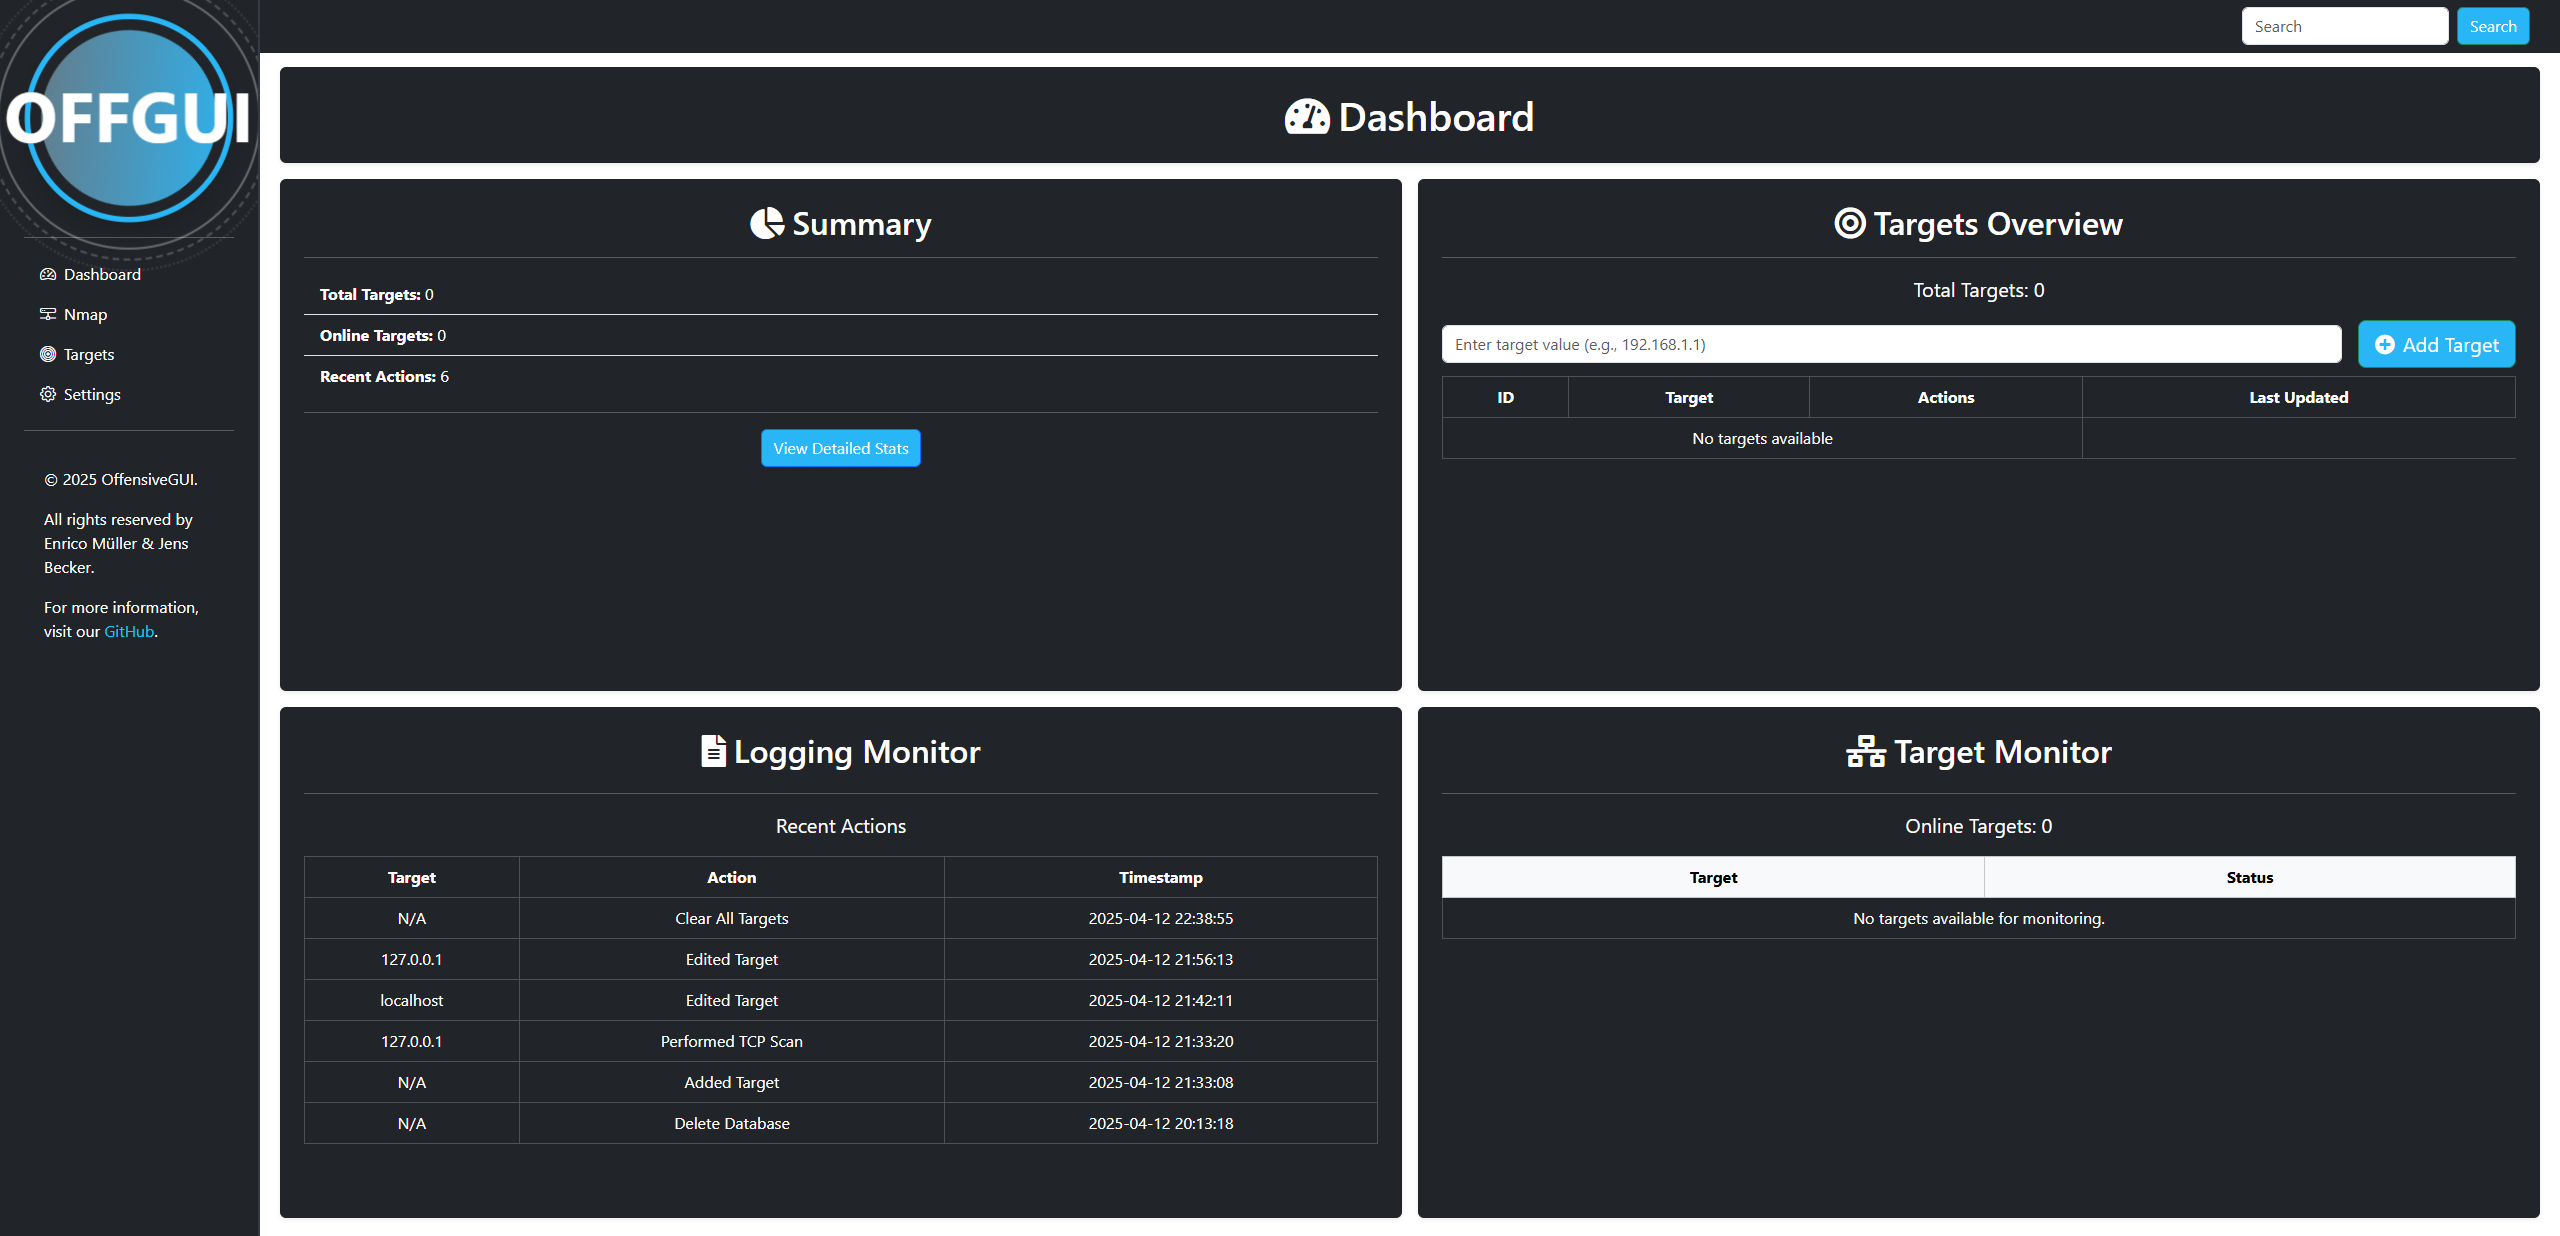
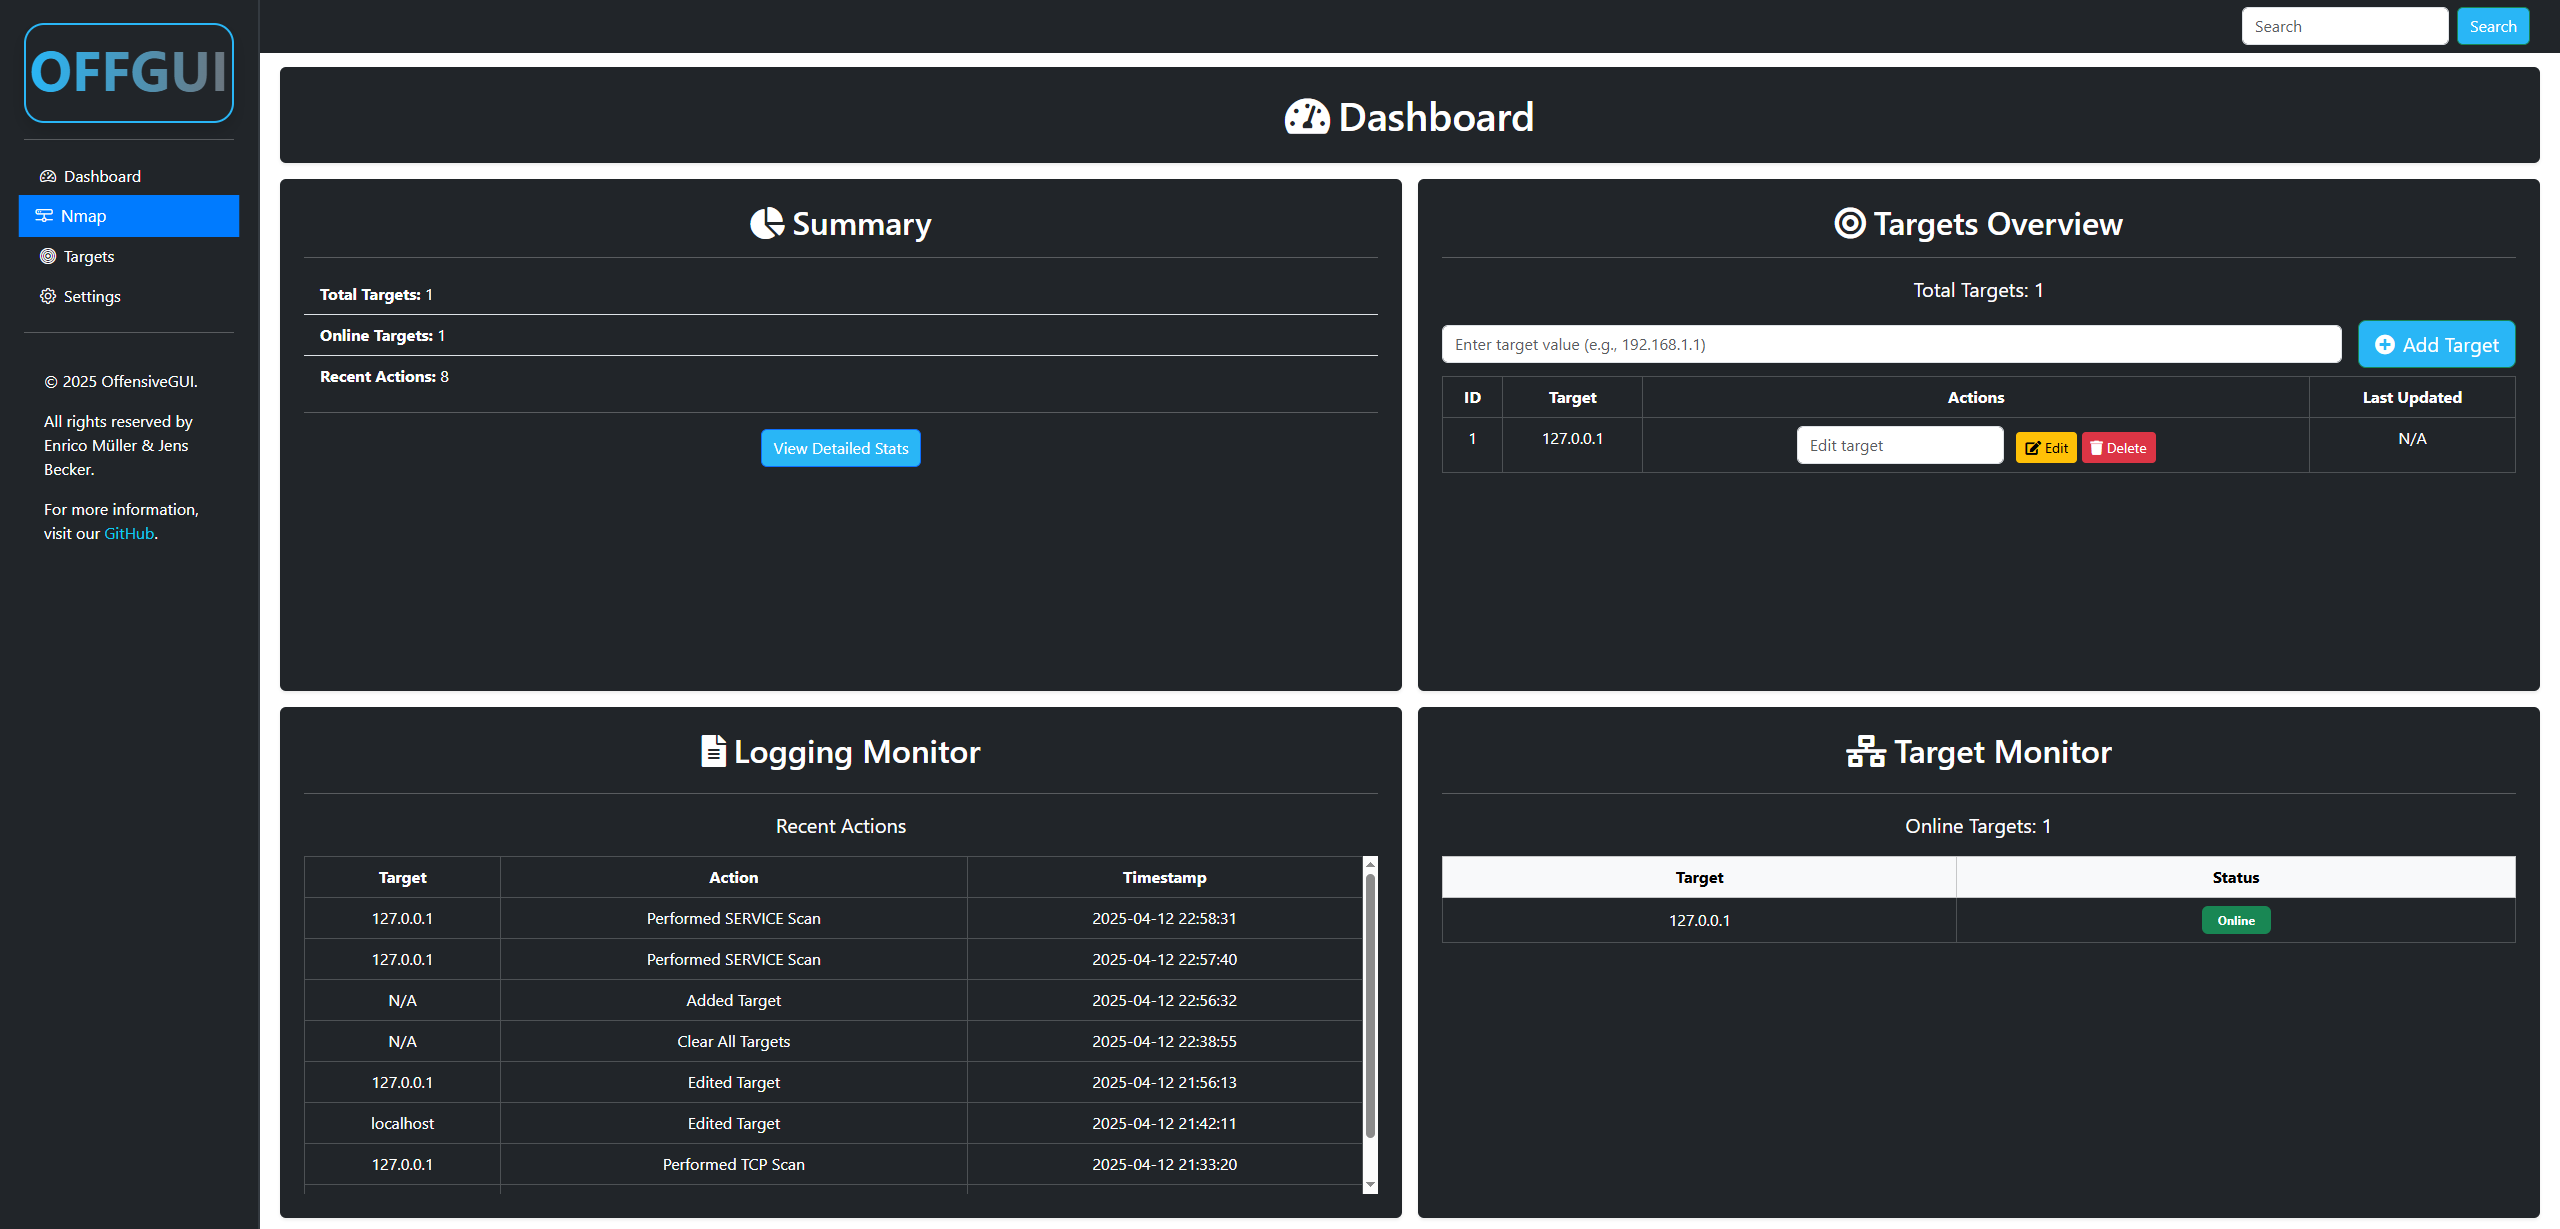
Refactor code structure for improved readability and maintainability

diff --git a/templates/base.html b/templates/base.html
@@ -84,8 +84,8 @@
                     <a class="navbar-brand" href="/">
                         <div class="text-center">
                             <div class="logo-container bg-dark text-white mx-auto d-flex align-items-center justify-content-center shadow position-relative logo-hover" style="width: 210px; height: 100px; border-radius: 20px; border: 2px solid #29B6F6; z-index: 10; overflow: hidden; position: relative;">
-                                <!-- Professional Logo -->
-                                <h1 class="text-center text-white d-flex" style="font-size: 3.5rem; font-weight: bold;">OFFGUI</h1>
+                                <!-- Professional Logo with Gradient -->
+                                <h1 class="text-center d-flex" style="font-size: 3.5rem; font-weight: bold; background: linear-gradient(90deg, #29B6F6, #6c757d); -webkit-background-clip: text; -webkit-text-fill-color: transparent;">OFFGUI</h1>
                                 <!-- Shimmer Effect -->
                                 <div class="shimmer-effect position-absolute" style="width: 300%; height: 300%; background: linear-gradient(120deg, rgba(255, 255, 255, 0.1), rgba(255, 255, 255, 0.4), rgba(255, 255, 255, 0.1)); transform: rotate(45deg); animation: shimmer 3s infinite; z-index: 5;"></div>
                             </div>

diff --git a/README.md b/README.md
@@ -1,6 +1,6 @@
 # OffensiveGUI
 
-![OffensiveGUI Logo](static/images/logo.png)
+![OffensiveGUI Logo](static/images/logo.gif)
 
 OffensiveGUI is an open-source tool tailored for network administrators and cybersecurity professionals. It simplifies network scanning, target monitoring, and database management through an intuitive web-based interface. Built on top of Nmap and other tools, it provides a seamless experience for managing network security tasks.
 
